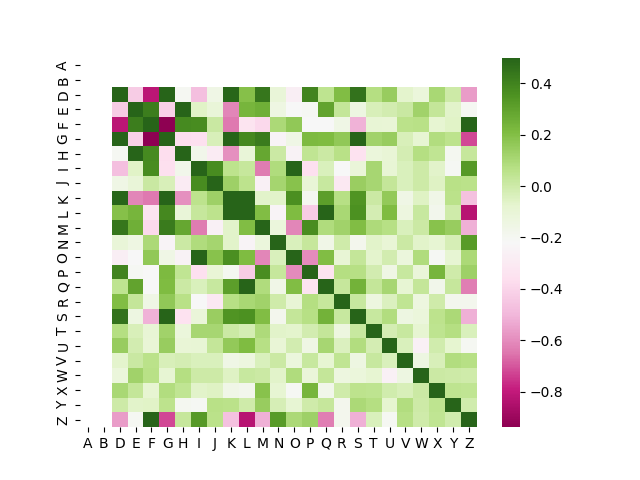
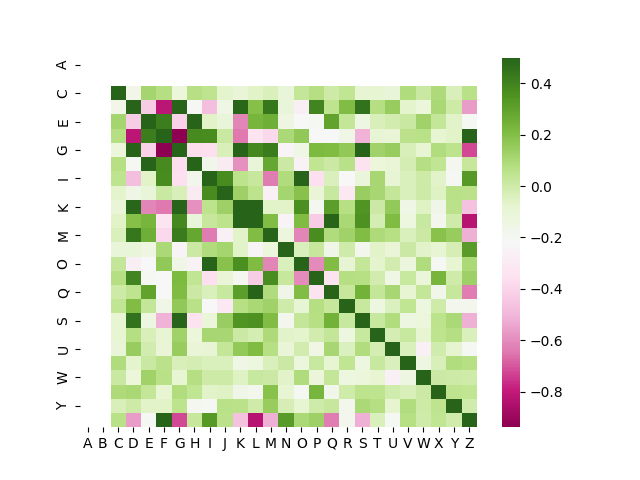
doc: modification de la matrice de correlation pour prendre en compte C

diff --git a/main.py b/main.py
@@ -31,11 +31,11 @@ def analyzeData():
     data.shape  # Dimension du dataframe
     data.info()  # résumé rapide des données
     print(data.describe())  # statistiques sur différentes tendances sur les données.
-    sn.heatmap(data.corr(), cmap="PiYG", vmax=0.5)
     print("Nombre d'exemples de chaques classes : ")
     print(data.value_counts("Z"))
-    plt.show()
     label_encode(data, "C")
+    sn.heatmap(data.corr(), cmap="PiYG", vmax=0.5)
+    plt.show()
     x = data
     y = data["Z"]
     del x["A"]

diff --git a/README.md b/README.md
@@ -16,6 +16,9 @@ On remarque que la classe C est une classe comportant des caractères alphabéti
 
 ## Matrice de corrélation
 ![](matrice_correlation.png)
+
+*Note: il n'y pas assez de place pour afficher tous les caractères, cependant l'alignement des lettres sur l'axe de y est toujours bon*
+
 Positivement corrélé avec la classe Z:
  - Le descripteur F qui semble être le plus corrélé
  - Le descripteur I
